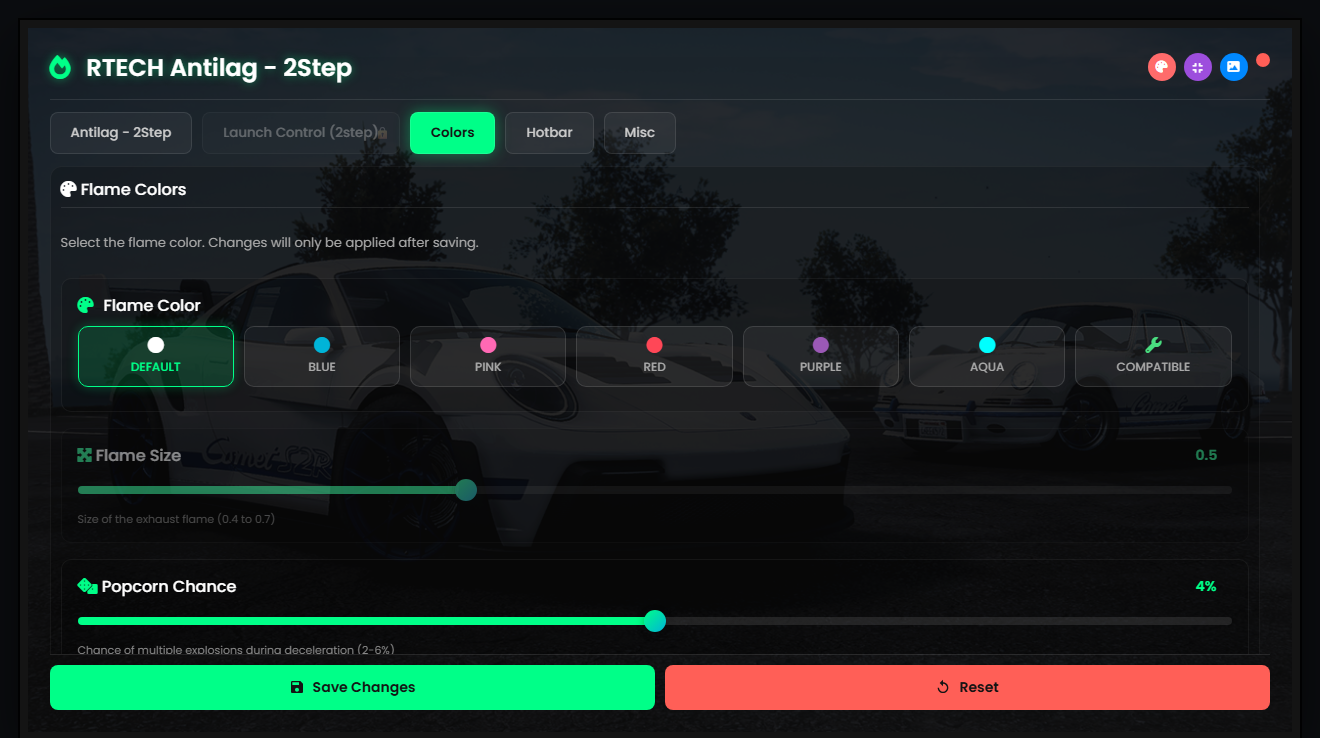
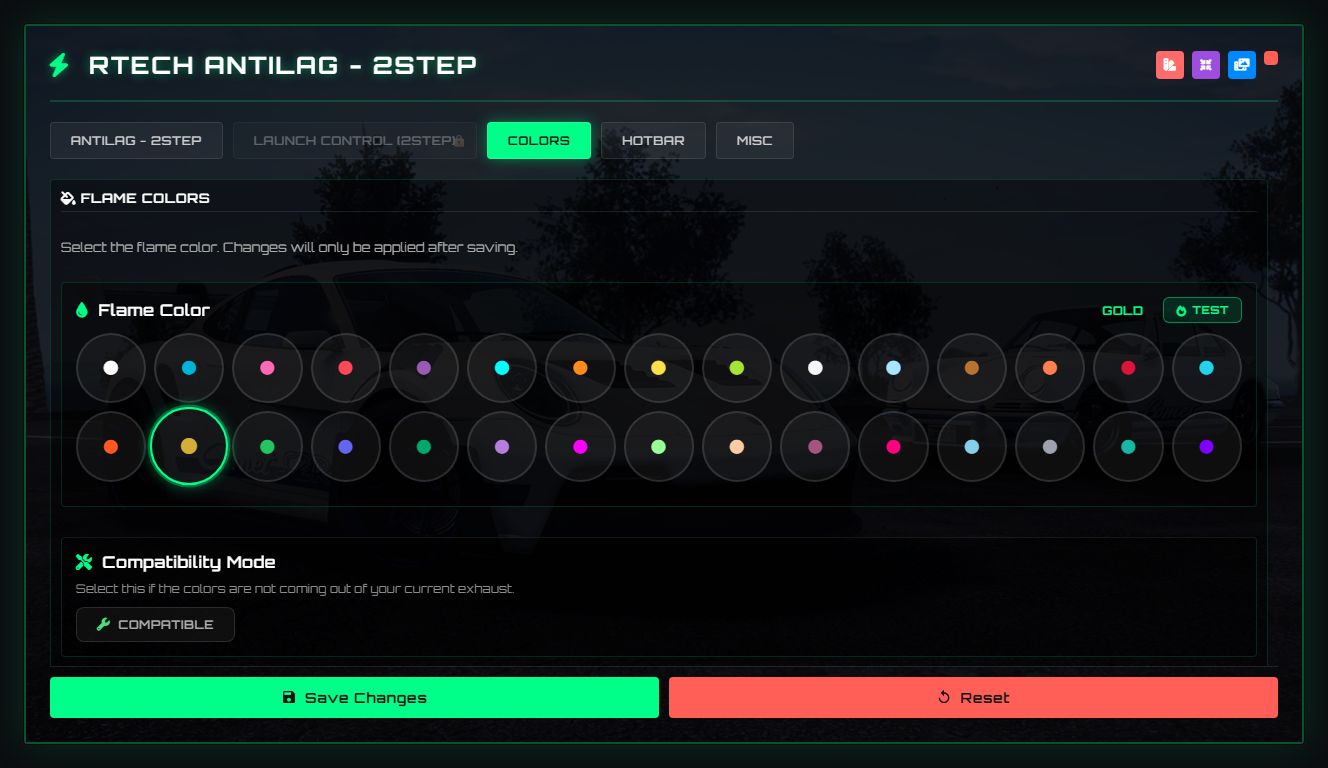
Document the 30-colour picker and the flame test mode

diff --git a/README.md b/README.md
@@ -33,7 +33,12 @@ tablet panel, and it all sticks to the plate.
 
 ### Looks
 
-- **6 flame colours**, plus flame size per vehicle
+- **30 flame colours**, picked from a swatch grid, plus flame size per vehicle
+- **Test before you save** — the panel shrinks aside, the car is locked in place, and you
+  rev to watch the flame. Swap colours mid-test and they change instantly. Nothing is
+  written until you hit Save, and nearby players see the colour you are testing
+- **Compatibility mode** in its own section, for exhausts that will not take the
+  custom colours
 - **Two UI themes** (Classic and Modern) and a free accent colour picker, saved per player
 - Draggable panel
 
@@ -43,9 +48,20 @@ tablet panel, and it all sticks to the plate.
 
 ## Screenshots
 
-| Flame colours and sizes | Hotbar presets |
-|---|---|
-| ![Colours tab](images/colors.png) | ![Hotbar tab](images/hotbar.png) |
+<p align="center">
+  <img src="images/colors.png" alt="Flame colour picker" width="860">
+</p>
+
+Testing a colour without saving. The car is frozen, the prompts follow your input
+device, and Backspace ends it:
+
+<p align="center">
+  <img src="images/test-mode.png" alt="Flame test mode" width="860">
+</p>
+
+<p align="center">
+  <img src="images/hotbar.png" alt="Hotbar presets" width="860">
+</p>
 
 ## Requirements
 
